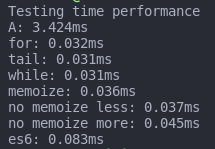
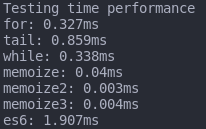
Fix functions errors, update readme

diff --git a/index.js b/index.js
@@ -1,7 +1,23 @@
+// Won't work after the 10.000
 // TAIL RECURSIVE Function (MINE HEHE)
-const recursiveFactorial = (num) => {
-    return num === 0 ? 1 : num < 0 ? -1 : (num * recursiveFactorial(num - 1));
-};
+const factM = (num) => {
+    const recursiveFactorial = (n, s) => {
+        if(n === 0) return s;
+        n -= 1; n *= s;
+        return recursiveFactorial(n, s);
+    };
+    
+    return recursiveFactorial(num, 1);
+}
+
+// TAIL Recursive 
+function factorialA(n) {
+
+    if (n <= 1) return 1;
+      
+    return (n * factorialA(n - 1));
+}
+
 
 // Using while
 const whileFactorial = (n, r = 1) => {
@@ -23,12 +39,7 @@ function memoize(func, max) {
 }
 
 // Recursive but less characters
-function factLessChar(n){return n<2?1:n*factLessChar(n-1);}
-
-// Recursive but more characters
-function factMoreChar(num) {
-    return num < 2 ? 1 : num * factMoreChar(num - 1);
-}
+function fact(n){return n<2?1:n*fact(n-1);}
 
 // Using for
 function forFact(num)
@@ -42,34 +53,32 @@ function forFact(num)
 // ES6 Notation
 const ES6Fact = n => [...Array(n + 1).keys()].slice(1).reduce((acc, cur) => acc * cur, 1);
 
-console.time("A")
 console.log("Testing time performance");
-console.timeEnd("A")
 
 console.time("for")
-forFact(100)
+forFact(10000)
 console.timeEnd("for")
 
 console.time("tail")
-recursiveFactorial(100);
+factM(10000);
 console.timeEnd("tail")
 
 console.time("while");
-whileFactorial(100);
+whileFactorial(10000);
 console.timeEnd("while")
 
 console.time("memoize")
-memoize(factLessChar,100);
+memoize(fact,10000);
 console.timeEnd("memoize")
 
-console.time("no memoize less")
-factLessChar(100);
-console.timeEnd("no memoize less")
+console.time("memoize2")
+memoize(fact,10000);
+console.timeEnd("memoize2")
 
-console.time("no memoize more")
-factMoreChar(100);
-console.timeEnd("no memoize more")
+console.time("memoize3")
+memoize(fact,10000);
+console.timeEnd("memoize3")
 
 console.time("es6")
-ES6Fact(100)
+ES6Fact(10000)
 console.timeEnd("es6")

diff --git a/README.md b/README.md
@@ -1,6 +1,6 @@
 # The BEST factorial function
 
-By using time performance tests, get the less time consuming function to do a factorial operation!
+By using time performance tests, get the less time consuming function to do a factorial operation of 10.000!
 
 ## Results
 
@@ -9,16 +9,15 @@ Using the following methods:
 - While-loop
 - Tail recursion
 - Memoize
-- Less characters in a recursive function
-- Same recursive function but more characters
 - ES6 type function
 
 ![](results.png)
 
 ## Conclusion
 
-It appears that there is no difference between most methods, but the ES6 function might be the slowest one by peeking at 0.083ms while the other ones stay at a 0.03 to 0.04 margin.
-Either way, the BEST factorial function out of all is the one that performs best and has no readability issues. So for me, the Tail Recursion ones since they are shorter and easy to read.
+It appears that there is no difference between most methods, but the ES6 function might be the slowest one by peeking at 1.907 ms while the other ones stay at a 0.8 to 0.3 margin.
+The memoize technique is by far the best function permormance-wise, because it last 0.04 ms to complete, and after the initial execution, the following ones will complete at 0.004 ms at most. Worth to check out!
+Either way, the BEST factorial function out of all is the one that performs best and has no readability issues. So for me, the Tail Recursion ones since they are shorter and easy to read. BUT, you should have in mind the memoization technique for really large projects where some functions are intensively consuming.
 
 ### TO-DO
 
